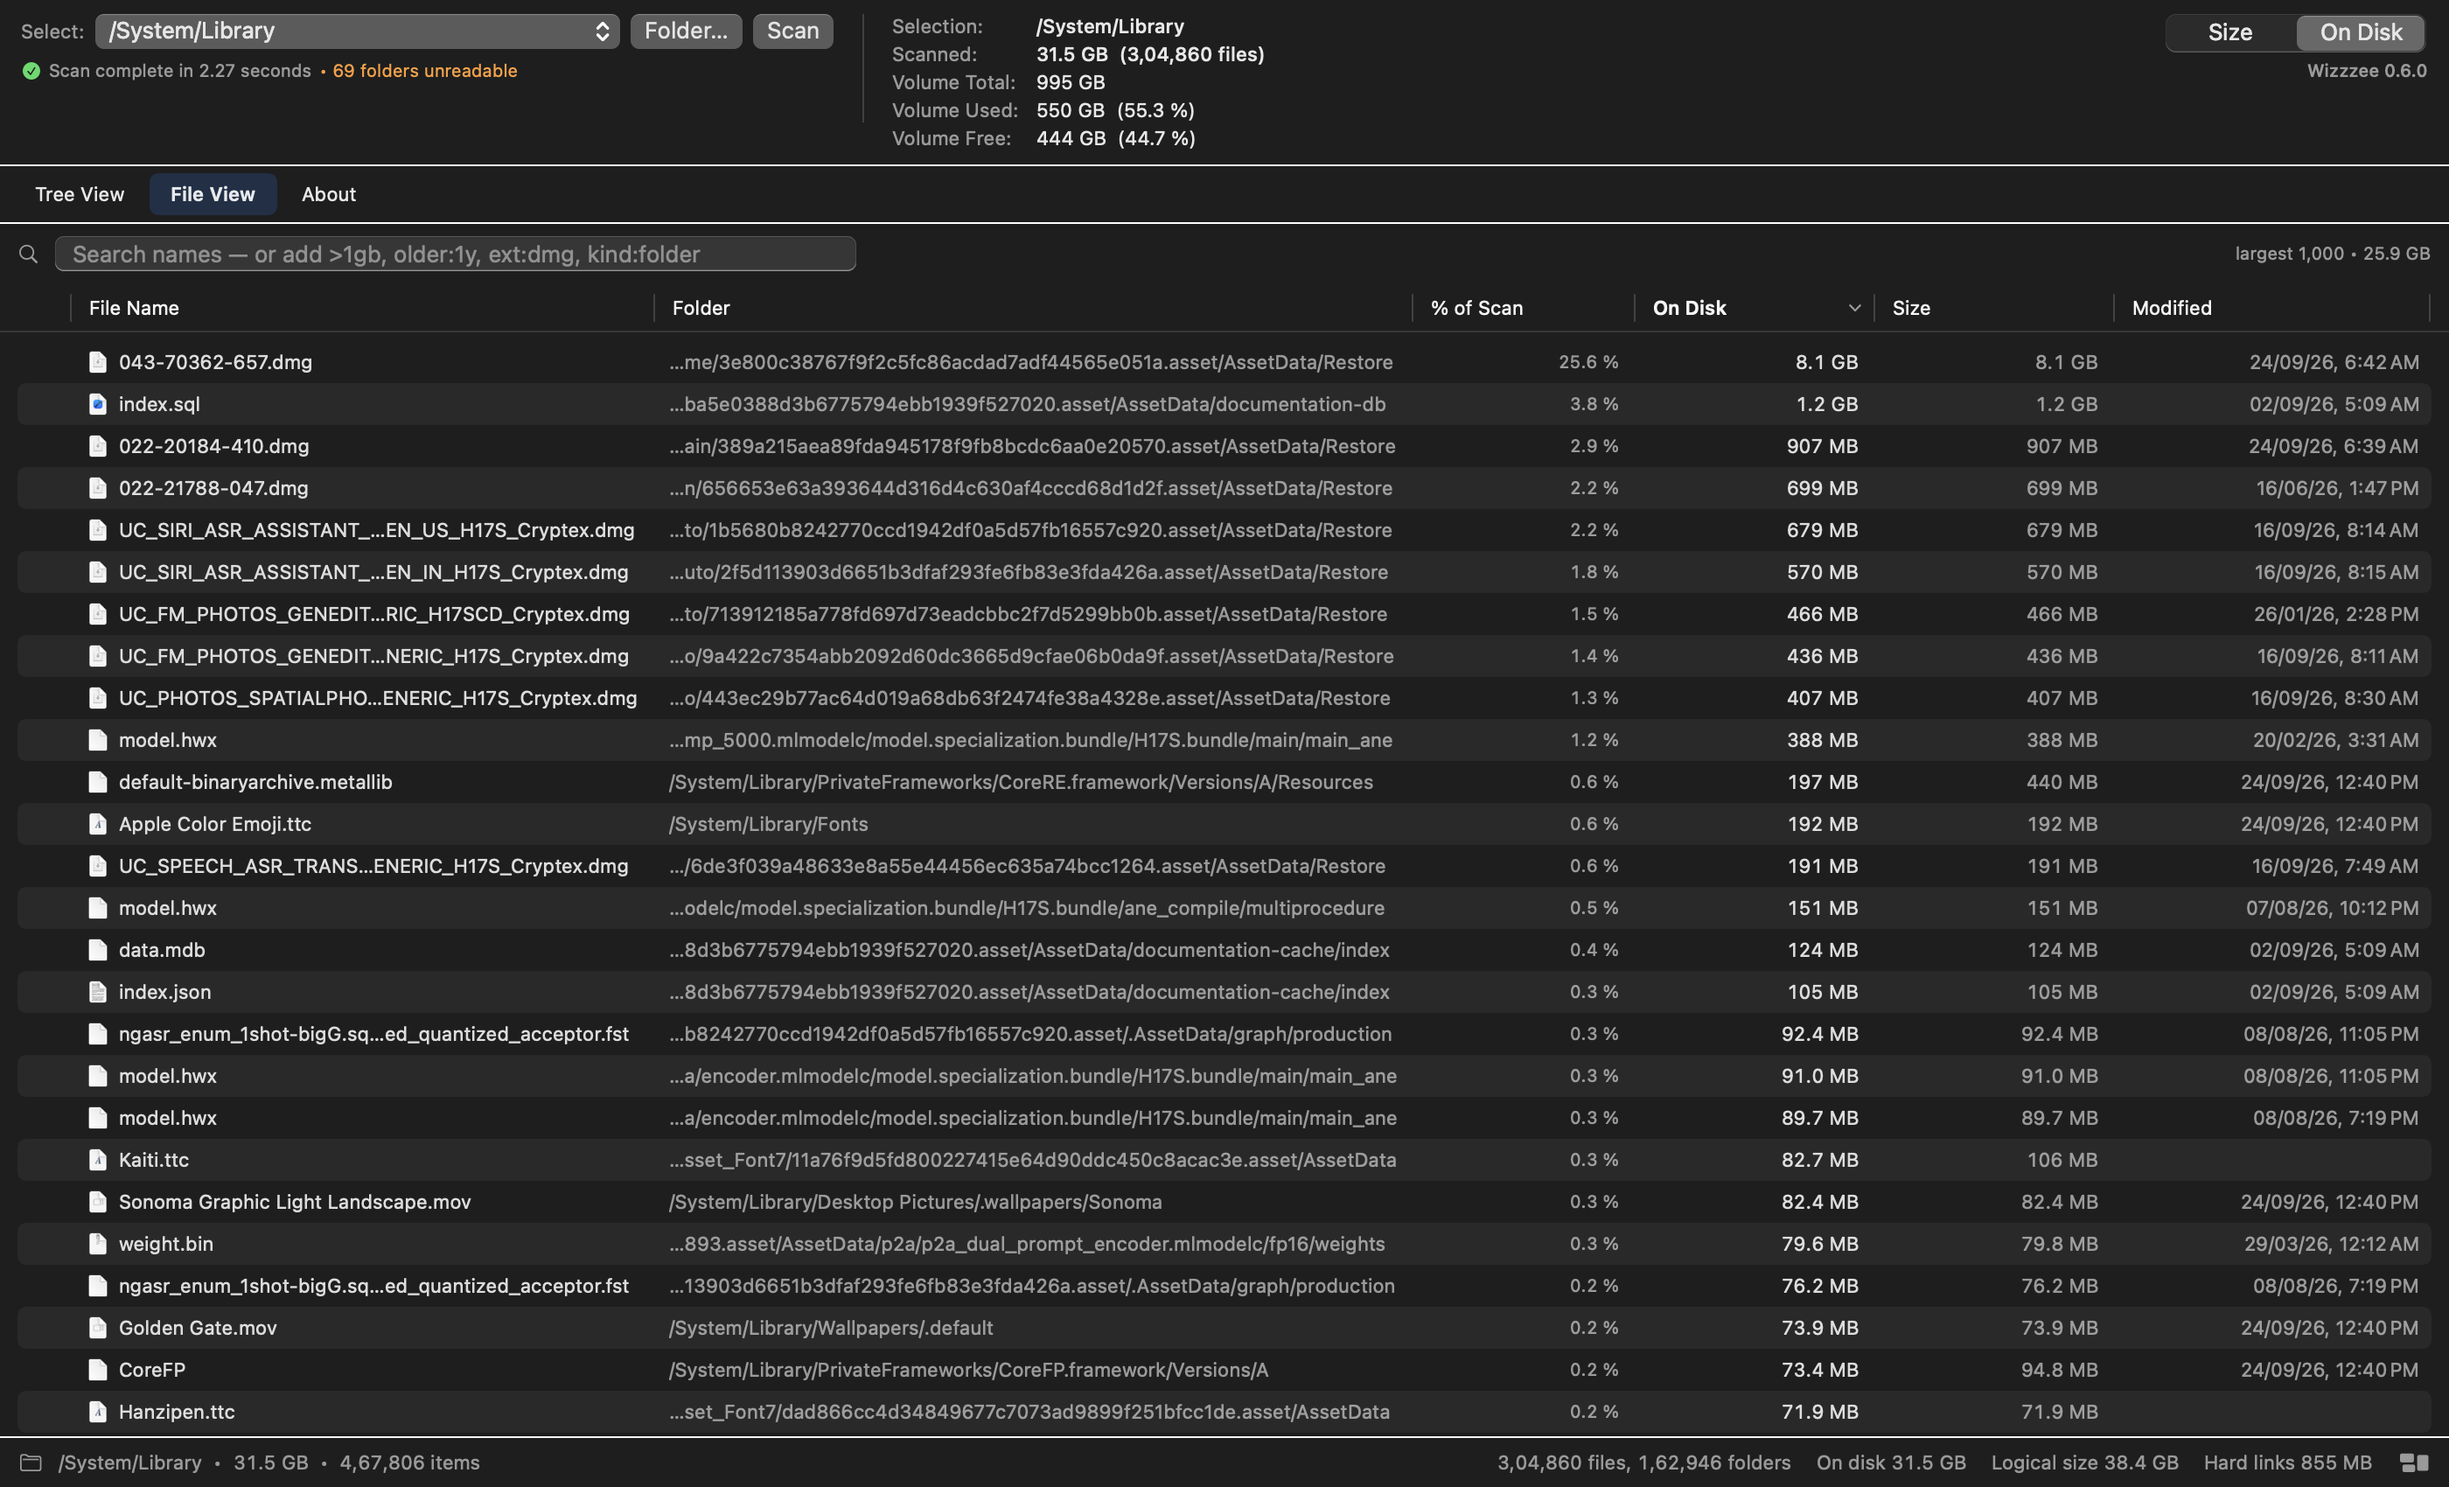
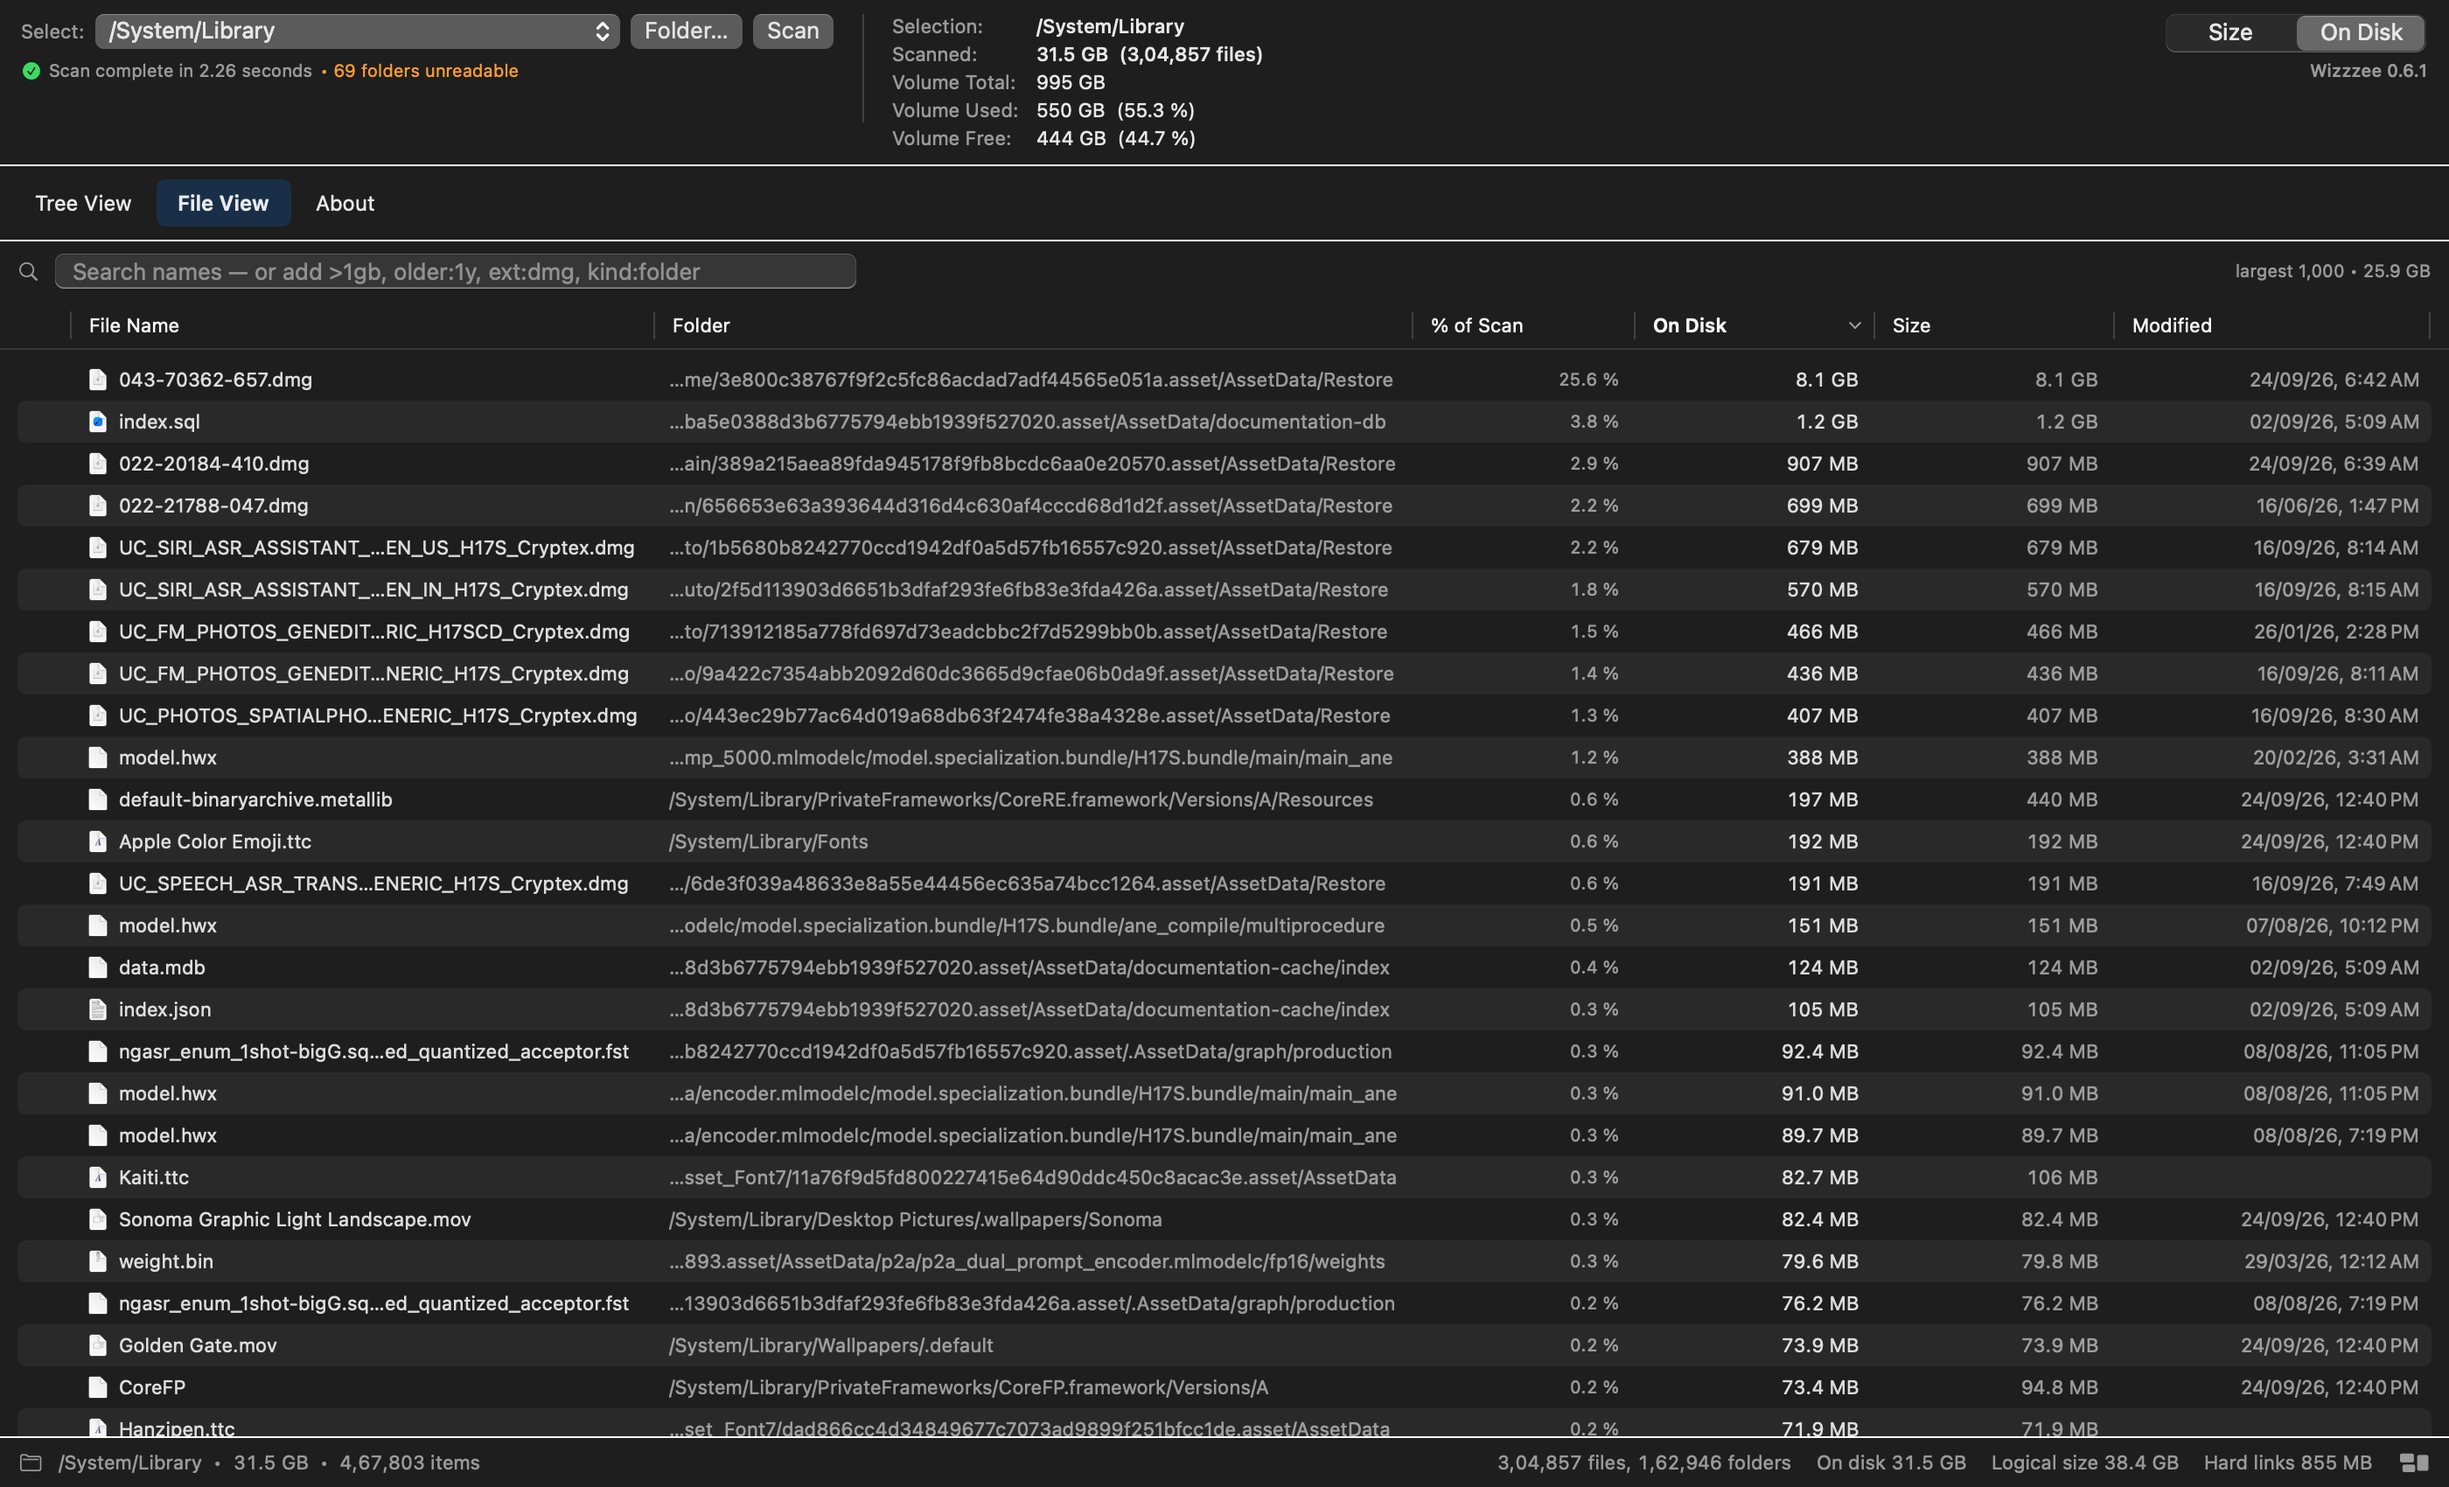
Release 0.6.1
Version 0.6.1, build 14, and the release notes for it.

One change since 0.6.0: what is marked, and the buttons that remove it,
moved from a bar across the foot of the window up beside the tabs (#48),
and what the review of the release as a whole found in it (#50): the open
list of marks is held at the height it opened with, so that a box ticked
while it is open does not move the table under the pointer.

README: every screenshot is redrawn from this build, which has the taller
row for the tabs, and the count of checks catches up with the checks.

diff --git a/docs/releases/v0.6.1.md b/docs/releases/v0.6.1.md
@@ -1,0 +1,57 @@
+# Wizzzee 0.6.1
+
+Wizzzee is a disk space analyzer for macOS in the shape of [WizTree](https://diskanalyzer.com/): a folder tree with sizes, a list of the biggest files, and a colored treemap you can click into. It scans a full startup disk — around 3.9 million files — in roughly 15 seconds.
+
+**This release moves one thing.** 0.6.0 took the count of what is marked, and the buttons that remove it, out of a chip in the status bar and put them in a bar across the foot of the window. The bar was easy to see and in the wrong place: at the far end of the window from the boxes being ticked, and from everything else that acts on a selection.
+
+## What is marked, beside the tabs
+
+From the first mark, the bar now fills the rest of the row the tabs are in, at the top of the window and on every tab:
+
+`Tree View  File View  About  ☑ 3 items marked for removal · 424 MB on disk · Show List ⌄ ……… Clear Marks · Move to Trash · Delete…`
+
+- **It is where the eye already is.** The header's own buttons for a plain selection are just above it, and the column the boxes are ticked in is just below.
+- **The first mark moves nothing.** The tabs' row is one height with the bar in it or not, so the box you just ticked stays under the pointer. Click it again without moving and the mark comes back off.
+- **Show List drops the list down under the row**, where it used to open upwards from the foot. It is still a row for each mark, with its size, where it is, and a way to take the mark back off; still as tall as its rows up to ten; and still gives way and scrolls in a short window.
+- **The open list keeps the height it opened with.** It is above the table now, and a list that grew with every box ticked would push the table down a row under the pointer. A mark made while it is open is one more row to scroll to; hide the list and show it again and it is as tall as what is marked by then.
+- Nothing is at the foot of the window now but the status bar.
+
+What the buttons do has not changed. **Move to Trash** moves everything marked without asking, and `⌘Z` brings it back; **Delete…** asks first.
+
+The guide's page on marking is redrawn to match: its picture has the tabs and the bar at the top, and its second card is *The bar beside the tabs*. If you ticked **Don't show this again**, it is under **Help ▸ Welcome to Wizzzee**.
+
+## Limits
+
+- **`⌘Q` does nothing while the guide is open.** A window with a sheet over it does not quit, and the guide is a sheet. Close the guide first — `Esc` does it — and then quit. This is in 0.6.0 as well.
+- **Taking the last mark off with the list open shuts the list**, and the table moves back up by the list's height. Nothing else that marks or unmarks moves it.
+- **Closing the Full Disk Access banner while something is marked** moves the tabs' row, bar and all, up into the banner's place. A second click where the banner's ✕ was is then on the bar's **Delete…**, which asks, and names what would go, before it does anything.
+- In a window at its shortest, with the treemap showing, the list of marks is about seven rows high and scrolls. It takes its full ten from a window about 730 points high.
+- A plain multiple selection — several rows picked with Shift or `⌘`, none of them ticked — still has its two buttons at the top right, under **Size / On Disk**. They are now just above the bar for the marks, and are not the same thing: one pair acts on what is selected, the other on what is marked.
+- The tabs' row is 11 points taller than it was, so the tables are 11 points shorter.
+
+## Installing
+
+Download `Wizzzee-0.6.1-macos-universal.zip` below, unzip it, and move `Wizzzee.app` to Applications, replacing the old one.
+
+- **First launch.** The app is not notarized, so macOS blocks it the first time. Open it once, dismiss the warning, then go to **System Settings → Privacy & Security** and click **Open Anyway**. macOS asks only once.
+- **Full Disk Access has to be granted again.** macOS ties that permission to the exact build, so the grant from an earlier version does not carry over. In **System Settings → Privacy & Security → Full Disk Access**, remove the old Wizzzee entry and add the new app. Without it, Mail, Messages, Safari and other users' folders are skipped and the totals read low.
+
+It runs on macOS 14 or newer, on Apple silicon and Intel.
+
+## Internal
+
+The bar and the list are the same two views as in 0.6.0, in a different place: the bar inside the tabs' row, and the list between that row and the tab's contents. The one thing that needed care was the first mark. A strip added above a table pushes the table down by its own height, under a pointer that has just clicked in it. So the row was made one height for good, 42 points, and the bar goes into room that is already there.
+
+It went through the same checks as the two changes in 0.6.0. It was first built as a sketch and shown, beside the bar 0.6.0 shipped, to the person whose first-time user had not found either; this is the one they chose.
+
+It was driven by hand in the built app — a copy stamped like the release build, under preferences of its own, against a throwaway disk image, with every removal checked on disk. A box was ticked, and the same spot clicked again without moving the pointer: the mark came off, which is the first mark moving nothing, seen from the outside. The list was opened and a mark taken off from it; a folder moved to the Trash from the bar and brought back with `⌘Z`; a file deleted for good through the confirmation; and nineteen things marked with the list open in a window at its shortest, where the header, the banner, the tabs and the bar, the list, the tree, the map and the status bar were all in sight.
+
+A second model reviewed it. It found one thing, and it was real: the README's words had moved with the bar and the two pictures under them had not. It checked, and found nothing wrong with, the tabs keeping their place across the first mark, the room allowed for the rest of the window while the list is open, and the six numbers on the guide's picture still pointing at what their cards describe.
+
+Then the release was read whole — the difference from 0.6.0, as one piece — by a third model, and that is where the thing that mattered was found. Every check of *the first mark moves nothing* had been made with the list shut. With it open, the list is above the table and was as tall as the marks then standing: each box ticked added a row to it and moved the table down a row, so that a second click in the same place was on the box of the row above. 0.6.0 could not do this, since its list was under the table. The verdict was to fix that first, and it is the fix described above: the list is held at the height it opened with. It was confirmed in the built app — a box ticked with the list open, and the same spot clicked again, took the same mark back off — and reviewed like any other change.
+
+Two smaller things came with it. The check named for the bar being beside the tabs had never asked whether it was, and now does. And closing the Full Disk Access banner slides the bar into the banner's place; that one was left, and is among the limits above.
+
+Last, every feature was clicked through on the bundle the release workflow builds, on a throwaway disk image with every removal checked on disk: the guide on first launch and its keys; a click on a row giving its table the keyboard; the bar, its list, **Move to Trash** and `⌘Z`; Quick Look; a rescan keeping its place; file-type focus; the treemap's zoom and `⌘`-click; search; **Delete…** through its confirmation; the right-click menu; and nineteen marks with the list open in a window at its shortest. One run of it went wrong and was the test's doing, not the app's: reopened, the test copy came back at its smallest size, and clicks worked out for the default size landed on other rows. That pass was made before the fix above; once it was in, the bundle was built again and the part it touches was gone through on that one — a box ticked with the list open and the same spot clicked again, then **Move to Trash**, which took the one file that had been marked to begin with and nothing else.
+
+The self-test grew from 759 checks to 763. The seven that held the bar to the foot of the table were rewritten to hold it to the tabs' row, to the right of the tabs, and to hold the table still: the same height, at the same place, before the first mark, after it, after a second, with the list open and a mark made or taken off, and after the last is cleared.

diff --git a/README.md b/README.md
@@ -292,7 +292,7 @@ dist/Wizzzee.app/Contents/MacOS/Wizzzee --selftest
 ```
 
 `--selftest` builds a throwaway tree with known contents and checks the scanner
-and both delete paths against ground truth — 759 checks, no permissions needed.
+and both delete paths against ground truth — 763 checks, no permissions needed.
 CI runs it on every push, along with a universal-binary and signature check.
 
 ## Releasing
